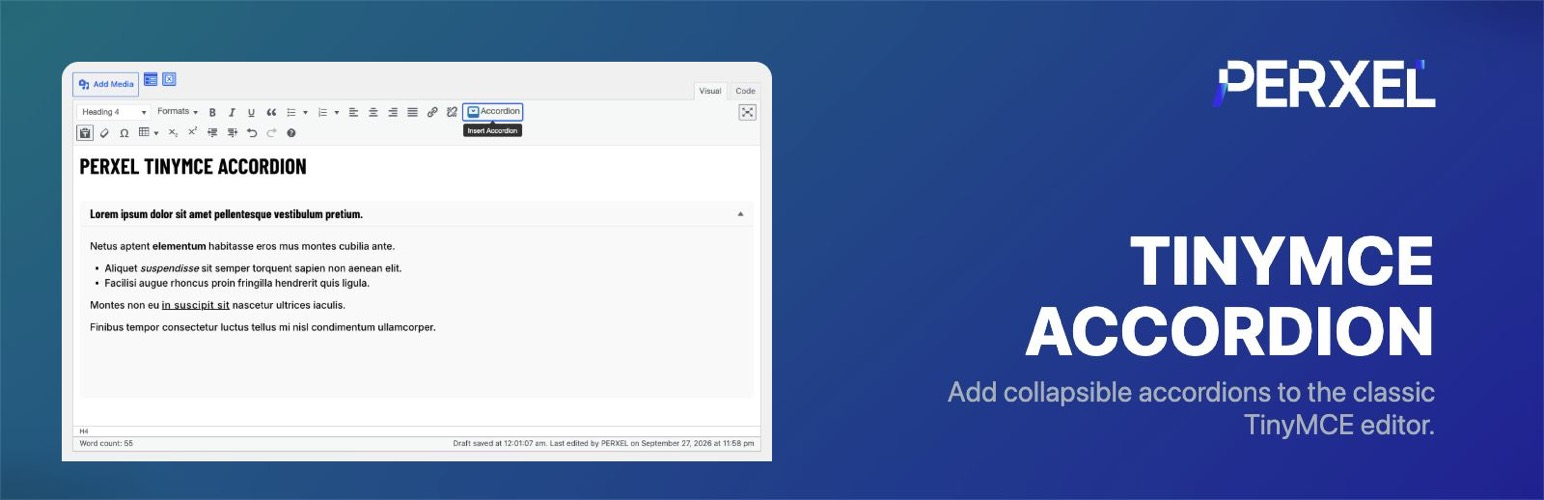
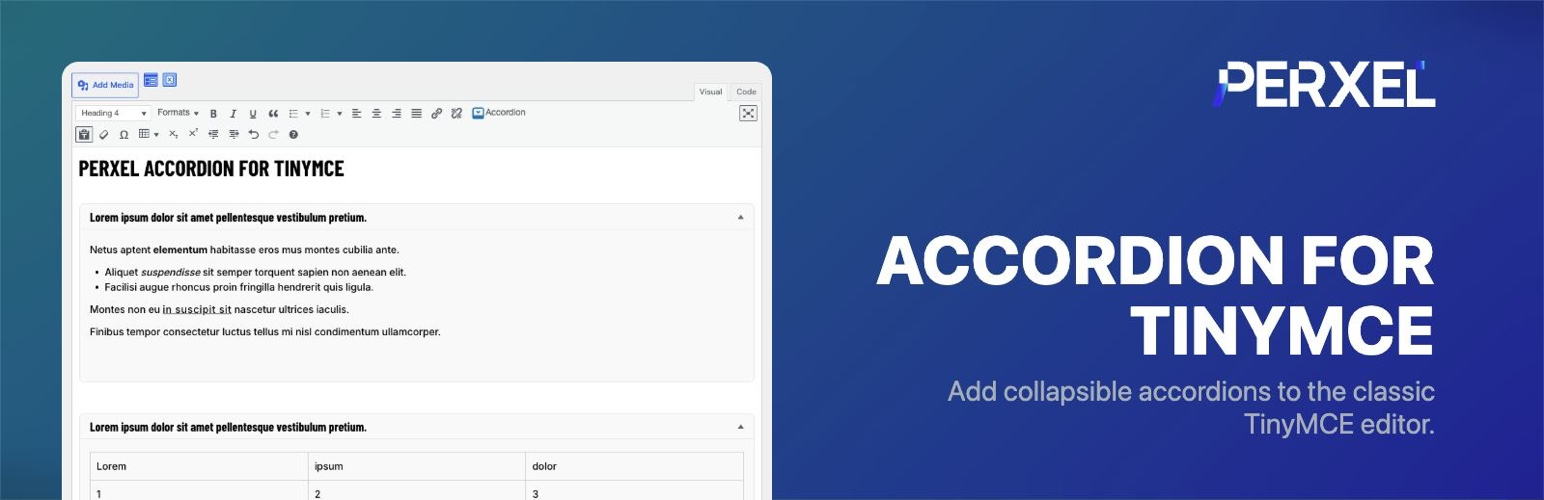
Rename to Perxel Accordion for TinyMCE (#2)
* Rename to Perxel Accordion for TinyMCE (perxel-accordion-for-tinymce)

WordPress.org review: TinyMCE is a third-party project name and must sit
after 'for'. Rename display name, slug, text domain, namespace, file names,
workflows; add a non-affiliation notice; record the review and naming rules.

* Replace listing artwork with the Accordion for TinyMCE banner and icon

Masters replaced; .wordpress-org banners and icons resized from them.

* Replace screenshot-1 with the renamed-plugin editor screenshot

* Update banner with the renamed-plugin screenshot

---------

diff --git a/assets/css/pxta-accordion.css b/assets/css/pxta-accordion.css
@@ -1,5 +1,5 @@
 /*
- * Perxel TinyMCE Accordion - default styles.
+ * Perxel Accordion for TinyMCE - default styles.
  *
  * Loaded on the front end and inside the classic editor's Visual tab, so the
  * preview matches the published page. Turn it off entirely with

diff --git a/perxel-accordion-for-tinymce.php b/perxel-accordion-for-tinymce.php
@@ -1,7 +1,7 @@
 <?php
 /**
- * Plugin Name:       Perxel TinyMCE Accordion
- * Plugin URI:        https://perxel.com/products/perxel-tinymce-accordion
+ * Plugin Name:       Perxel Accordion for TinyMCE
+ * Plugin URI:        https://perxel.com/products/perxel-accordion-for-tinymce
  * Description:       Adds an "Insert Accordion" button to the classic TinyMCE editor and renders it on the front end as an accessible accordion.
  * Version:           0.0.6
  * Requires at least: 6.5
@@ -10,9 +10,9 @@
  * Author URI:        https://perxel.com/
  * License:           GPL-2.0-or-later
  * License URI:       https://www.gnu.org/licenses/gpl-2.0.html
- * Text Domain:       perxel-tinymce-accordion
+ * Text Domain:       perxel-accordion-for-tinymce
  *
- * @package Perxel_Tinymce_Accordion
+ * @package Perxel_Accordion_For_Tinymce
  */
 
 if ( ! defined( 'ABSPATH' ) ) {
@@ -27,21 +27,21 @@ define( 'PXTA_URL', untrailingslashit( plugin_dir_url( __FILE__ ) ) );
 /**
  * Human-readable product name. A brand name, deliberately not translated.
  */
-define( 'PXTA_NAME', 'Perxel TinyMCE Accordion' );
+define( 'PXTA_NAME', 'Perxel Accordion for TinyMCE' );
 
 /**
- * PSR-4-ish autoloader for Perxel_Tinymce_Accordion\* -> includes/*.php. The
- * namespace root matches the slug (perxel-tinymce-accordion ->
- * Perxel_Tinymce_Accordion) so WordPress Plugin Check accepts it as the
+ * PSR-4-ish autoloader for Perxel_Accordion_For_Tinymce\* -> includes/*.php. The
+ * namespace root matches the slug (perxel-accordion-for-tinymce ->
+ * Perxel_Accordion_For_Tinymce) so WordPress Plugin Check accepts it as the
  * plugin prefix with no suppression.
  */
 spl_autoload_register(
 	static function ( $class_name ) {
-		if ( strpos( $class_name, 'Perxel_Tinymce_Accordion\\' ) !== 0 ) {
+		if ( strpos( $class_name, 'Perxel_Accordion_For_Tinymce\\' ) !== 0 ) {
 			return;
 		}
 
-		$relative = substr( $class_name, strlen( 'Perxel_Tinymce_Accordion\\' ) );
+		$relative = substr( $class_name, strlen( 'Perxel_Accordion_For_Tinymce\\' ) );
 		$path     = PXTA_DIR . '/includes/' . str_replace( '\\', '/', $relative ) . '.php';
 
 		if ( is_readable( $path ) ) {
@@ -55,6 +55,6 @@ add_action(
 	static function () {
 		// Translations for a wordpress.org-hosted plugin load automatically since
 		// WP 4.6 - no load_plugin_textdomain() call needed.
-		Perxel_Tinymce_Accordion\Plugin::instance()->boot();
+		Perxel_Accordion_For_Tinymce\Plugin::instance()->boot();
 	}
 );

diff --git a/uninstall.php b/uninstall.php
@@ -3,7 +3,7 @@
  * Uninstall cleanup. Runs only when the plugin is deleted from the Plugins
  * screen.
  *
- * @package Perxel_Tinymce_Accordion
+ * @package Perxel_Accordion_For_Tinymce
  */
 
 if ( ! defined( 'WP_UNINSTALL_PLUGIN' ) ) {

diff --git a/includes/Editor.php b/includes/Editor.php
@@ -1,6 +1,6 @@
 <?php
 
-namespace Perxel_Tinymce_Accordion;
+namespace Perxel_Accordion_For_Tinymce;
 
 if ( ! defined( 'ABSPATH' ) ) {
 	exit;

diff --git a/includes/Plugin.php b/includes/Plugin.php
@@ -1,6 +1,6 @@
 <?php
 
-namespace Perxel_Tinymce_Accordion;
+namespace Perxel_Accordion_For_Tinymce;
 
 if ( ! defined( 'ABSPATH' ) ) {
 	exit;

diff --git a/includes/Shortcode.php b/includes/Shortcode.php
@@ -1,6 +1,6 @@
 <?php
 
-namespace Perxel_Tinymce_Accordion;
+namespace Perxel_Accordion_For_Tinymce;
 
 if ( ! defined( 'ABSPATH' ) ) {
 	exit;

diff --git a/CLAUDE.md b/CLAUDE.md
@@ -5,8 +5,8 @@ document (see "Documentation rules" below).
 
 ## What this is
 
-`perxel-tinymce-accordion` - a **public** WordPress plugin (repo
-`github.com/perxel/perxel-tinymce-accordion`, WordPress.org slug `perxel-tinymce-accordion`,
+`perxel-accordion-for-tinymce` - a **public** WordPress plugin (repo
+`github.com/perxel/perxel-accordion-for-tinymce`, WordPress.org slug `perxel-accordion-for-tinymce`,
 published under the `phucbm` .org account, branded Perxel).
 
 It was scaffolded from
@@ -62,7 +62,7 @@ Every Perxel plugin follows these; they are owned by the starter.
 ## Layout
 
 ```
-perxel-tinymce-accordion.php   Main file: header, constants, autoloader, boot
+perxel-accordion-for-tinymce.php   Main file: header, constants, autoloader, boot
 uninstall.php                  No-op - the plugin stores no options and no custom tables
 includes/Plugin.php            Singleton, boot() wires Shortcode + Editor
 includes/Shortcode.php         add_shortcode(), the pxta_accordion_html filter,
@@ -127,14 +127,14 @@ This plugin has no custom DB table (see the starter's `CLAUDE.md` for the
 
 ## Conventions
 
-- **Namespace** `Perxel_Tinymce_Accordion\` - the slug (`perxel-tinymce-accordion`) in
+- **Namespace** `Perxel_Accordion_For_Tinymce\` - the slug (`perxel-accordion-for-tinymce`) in
   `Ucfirst_Snake` form, so `WordPress.NamingConventions.PrefixAllGlobals`
   accepts it as the plugin prefix (Plugin Check does not read `phpcs.xml.dist`,
   so a `Vendor\Package`-style namespace would be flagged there). Sub-namespaces
-  are fine (`Perxel_Tinymce_Accordion\Admin\Foo` -> `includes/Admin/Foo.php`). Hooks,
+  are fine (`Perxel_Accordion_For_Tinymce\Admin\Foo` -> `includes/Admin/Foo.php`). Hooks,
   option keys and CSS classes stay `pxta_` / `pxta-`; constants `PXTA_`. Product
   name is the constant `PXTA_NAME` (no rebrand option).
-- **Text domain** `perxel-tinymce-accordion` (= the slug). No JS strings need
+- **Text domain** `perxel-accordion-for-tinymce` (= the slug). No JS strings need
   `wp.i18n` here - `editor.js`'s button/dialog labels are short and in English
   only for now; add `wp_set_script_translations()` if that changes.
 - **Escape at output, no blanket suppressions.** Never `phpcs:disable` a
@@ -166,13 +166,38 @@ There are no automated tests and no WP in the lint environment - `phpcs` and
 `php -l` verify syntax and style only. Behaviour must be smoke-tested on a real
 WordPress site.
 
+## Naming a plugin
+
+Decide the name **before** scaffolding: the slug becomes the folder, main file,
+text domain, namespace (`Ucfirst_Snake`), zip and repo, so renaming later touches
+everything. Rules from the .org review team (perxel-tinymce-accordion, 2026-09-29):
+
+- Pattern: `Perxel <Distinct Thing> for <Third-party>` - our brand first, the
+  third-party trademark/project name last, only after `for` / `with`. Never first
+  (`TinyMCE Accordion`), never mid-name (`Perxel TinyMCE Accordion`), never blended
+  (`TinyPress`). The slug follows the same order (`perxel-accordion-for-tinymce`).
+- "Perxel" is our own mark and the distinguishing term; the reviewer AI still
+  lists it as a "potential trademark" - say in the reply that we own it.
+- Adding a generic word (Simple, Easy, Advanced, Pro) does not make a name
+  distinctive; the brand prefix does. Search the plugin directory + web for the
+  name and its parts before submitting.
+- The same rule covers `Plugin URI`, repo name, contributor display name and any
+  logo or wordmark in the icon/banner - no third-party logos, and never imply
+  endorsement.
+- If a third-party name appears, add a one-line non-affiliation notice to
+  `readme.txt` and `README.md` ("X is a trademark of Y. This plugin is independent
+  and not affiliated with or endorsed by Y.").
+- A rename is a new slug reservation: reply to the review email asking for it,
+  upload a new zip at the "Add your plugin" page, keep the reply short and do not
+  list the changes.
+
 ## WordPress.org / Plugin Check compliance
 
 Rules that are not obvious and cost real time when re-derived per plugin:
 
 | Rule | Why |
 |---|---|
-| Namespace root = slug in `Ucfirst_Snake` (`Perxel_Tinymce_Accordion`) | `PrefixAllGlobals` accepts it as the prefix; a `Vendor\Package` namespace is flagged (`NonPrefixedNamespaceFound`) and Plugin Check ignores the `phpcs.xml.dist` prefix list |
+| Namespace root = slug in `Ucfirst_Snake` (`Perxel_Accordion_For_Tinymce`) | `PrefixAllGlobals` accepts it as the prefix; a `Vendor\Package` namespace is flagged (`NonPrefixedNamespaceFound`) and Plugin Check ignores the `phpcs.xml.dist` prefix list |
 | No `load_plugin_textdomain()` | .org auto-loads translations (slug == text domain); calling it on `plugins_loaded` is "too early" on WP 6.7+ |
 | No `phpcs:disable WordPress.Security.*` anywhere in `includes/` or the main file, and no `EscapeOutput` suppression at all: escape late with `esc_html()` / `esc_attr()` at the point of output | Reviewers flag file-wide security disables (perxel-image-optimizer, perxel-ai-translate 2026-09-22) and per-line "escaped earlier" echoes (perxel-ai-translate 2026-09-23); `bin/check-suppressions.sh` enforces both |
 | `set_time_limit()` etc.: `function_exists()` guard + inline `// phpcs:ignore Squiz.PHP.DiscouragedFunctions.Discouraged -- <reason>` | discouraged-function warning |
@@ -188,12 +213,12 @@ Any suppression for a documented false positive goes in *both* places -
 
 ## Releasing
 
-1. Bump the version in `perxel-tinymce-accordion.php` (header + `PXTA_VERSION`) and
+1. Bump the version in `perxel-accordion-for-tinymce.php` (header + `PXTA_VERSION`) and
    `readme.txt` (`Stable tag`); add a changelog entry to both `readme.txt` and
    `CHANGELOG.md`. Merge to `main` first. Tag, plugin `Version:` and `Stable tag`
    must all be equal or the deploy fails before touching SVN.
 2. Create the tag on `main` and publish a GitHub Release. `release.yml`'s `zip`
-   job attaches `perxel-tinymce-accordion.zip`; the `deploy` job commits trunk +
+   job attaches `perxel-accordion-for-tinymce.zip`; the `deploy` job commits trunk +
    `tags/<version>` + `.wordpress-org/` (-> SVN `assets/`) with the SHA-pinned
    10up action. It only runs when the repo variable `DEPLOY_TO_WPORG` is `true`.
 3. Verify `https://wordpress.org/plugins/<slug>/` and

diff --git a/.claude/docs/002-wporg-name-review-2026-09-29.md b/.claude/docs/002-wporg-name-review-2026-09-29.md
@@ -1,0 +1,57 @@
+# WordPress.org review: plugin name / trademark (2026-09-29)
+
+Plugin: "Perxel TinyMCE Accordion", slug `perxel-tinymce-accordion`, account `phucbm`.
+
+## Finding (single issue)
+
+The review AI flagged "Perxel, TinyMCE" as potential trademarks. The actionable one:
+
+> "TinyMCE" is a third-party registered project name used without wording that
+> clearly identifies this as a third-party integration, which can imply official
+> affiliation.
+
+Suggested: name **Perxel Accordion for TinyMCE**, slug **perxel-accordion-for-tinymce**.
+
+## Rules the reviewers stated
+
+- A third-party trademark/project name must not be first, and must not sit in the
+  name without a clear "for <X>" / "with <X>" structure. Put it at the END after "for".
+- No portmanteaus / altered forms (e.g. "PricesPress").
+- The distinguishing term (our brand, coined word) goes at the BEGINNING, not the end.
+- Adding a generic word ("Easy", "Advanced", "Simple") does not fix similarity.
+- Also checked: .org username/display name, contributor names, plugin URLs
+  (Plugin URI, repo, slug), and icon/banner artwork.
+- Owner-of-trademark exception: only if we are the owner (we are not for TinyMCE).
+- Should be a short reply, no change list; add only context that helps the review.
+- Unfixed = rejected after 3 months.
+
+## Our analysis
+
+- "TinyMCE" (Tiny Technologies) is the problem: it is the 2nd word, in the middle,
+  with no "for" structure. Slug has the same issue.
+- "Perxel" is our own brand (we own it, perxel.com, author = Perxel, .org profile
+  "Phuc Bui (PERXEL)"). It is the distinguishing term and is already first: keep it.
+  Mention ownership in the reply so it is not treated as someone else's mark.
+- Renaming per the suggestion fits every rule: brand first, third-party name last after "for".
+
+## Solution
+
+1. Display name -> **Perxel Accordion for TinyMCE** (plugin header, `readme.txt`
+   title + body mentions, `README.md`, `.pot` header).
+2. Slug/folder/main file -> `perxel-accordion-for-tinymce` (text domain, zip name,
+   `.pot` filename, URLs in header/readme/README, `Plugin URI`, GitHub repo rename).
+3. Namespace -> `Perxel_Accordion_For_Tinymce` (slug in `Ucfirst_Snake`); update
+   `@package`, `phpcs.xml.dist` prefixes, `composer.json`, `lint.yml`/`release.yml`
+   refs. `pxta_` / `PXTA_` prefixes can stay (still >= 4 chars, unique).
+4. Add a non-affiliation line to `readme.txt` + `README.md`: "TinyMCE is a trademark
+   of Tiny Technologies, Inc. This plugin is independent and not affiliated with
+   or endorsed by Tiny."
+5. Check `.wordpress-org/` banner/icon and `.claude/assets-src/` masters contain no
+   TinyMCE logo/wordmark (only plain descriptive text is fine).
+6. Build, upload the new zip at the "Add your plugin" page while logged in as
+   `phucbm`, and reply to the review email (short): new name/slug, request the new
+   slug reservation, note that Perxel is our own brand and TinyMCE appears only
+   after "for" with a non-affiliation disclaimer.
+
+Open point: the current version 0.0.6 has never been published, so no SVN/redirect
+concerns; the GitHub repo rename is outward-facing - do it only when the maintainer says so.

diff --git a/README.md b/README.md
@@ -1,6 +1,6 @@
-# Perxel TinyMCE Accordion
+# Perxel Accordion for TinyMCE
 
-![Perxel TinyMCE Accordion](.claude/assets-src/banner-master.jpg)
+![Perxel Accordion for TinyMCE](.claude/assets-src/banner-master.jpg)
 
 Adds an "Insert Accordion" button to the classic TinyMCE editor and renders it on the front end as an accessible accordion.
 
@@ -8,8 +8,8 @@ The classic editor has no built-in way to add a collapsible "read more" section 
 
 ![Inserting an accordion in the classic editor](.github/assets/demo.gif)
 
-- [Download the latest release](https://github.com/perxel/perxel-tinymce-accordion/releases)
-- Report an issue: [github.com/perxel/perxel-tinymce-accordion](https://github.com/perxel/perxel-tinymce-accordion)
+- [Download the latest release](https://github.com/perxel/perxel-accordion-for-tinymce/releases)
+- Report an issue: [github.com/perxel/perxel-accordion-for-tinymce](https://github.com/perxel/perxel-accordion-for-tinymce)
 
 ## What you get
 
@@ -38,7 +38,7 @@ The button shows up in the post and page editor, the widget editors, and any Adv
 
 ## Installation
 
-1. In the WordPress admin go to **Plugins -> Add New -> Upload Plugin**, choose the `perxel-tinymce-accordion.zip` file and click **Install Now**. Alternatively, copy the `perxel-tinymce-accordion` folder into `wp-content/plugins/` and install it from the **Plugins** screen.
+1. In the WordPress admin go to **Plugins -> Add New -> Upload Plugin**, choose the `perxel-accordion-for-tinymce.zip` file and click **Install Now**. Alternatively, copy the `perxel-accordion-for-tinymce` folder into `wp-content/plugins/` and install it from the **Plugins** screen.
 2. Click **Activate**.
 3. Open a post or page in the classic editor - the **Accordion** button is now in the toolbar, at the end of the first row.
 
@@ -87,6 +87,8 @@ This plugin stores no settings and creates no database tables, so there is nothi
 ## Data and external services
 
 This plugin stores no settings and creates no database tables, and it does not contact any external service. It sends nothing off your site and adds no tracking. Deleting it removes only its own files.
+
+TinyMCE is a trademark of Tiny Technologies, Inc. This plugin is independent and is not affiliated with, endorsed by or sponsored by Tiny Technologies, Inc.
 
 ## License
 
